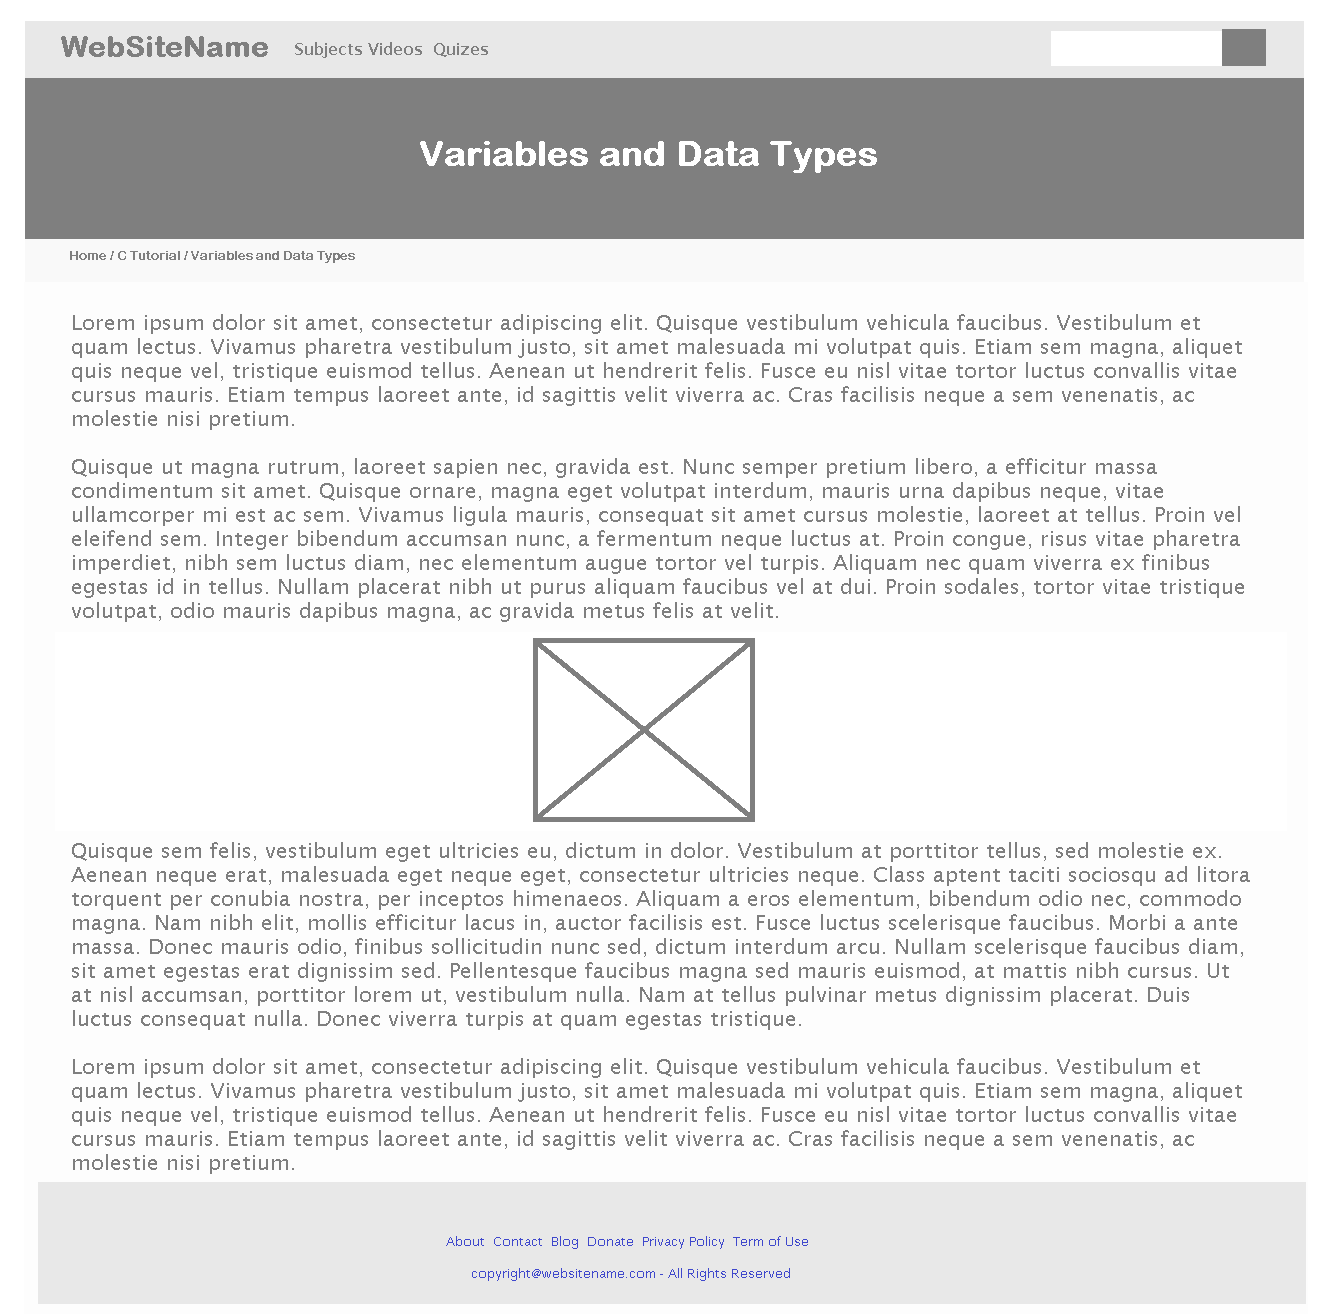
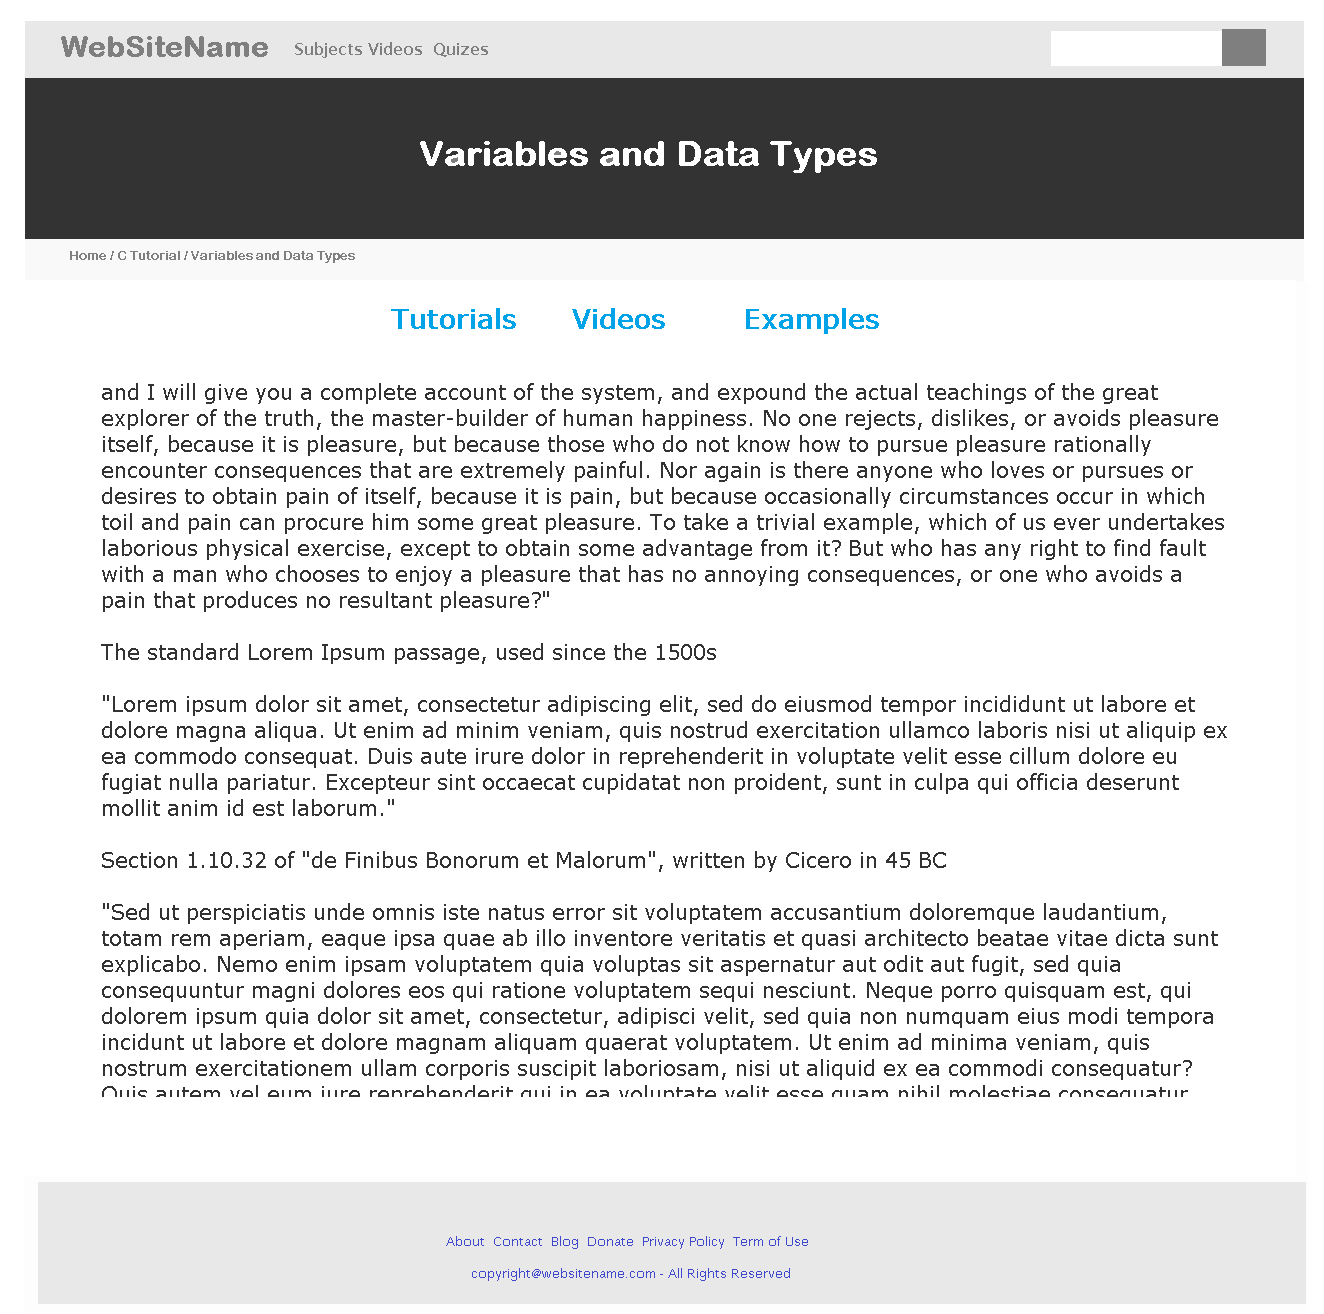
Updates !

Changed region(s): [[0.0619, 0.2184, 0.929, 0.9049], [0.0, 0.0624, 0.9909, 0.1872]]

diff --git a/QuizPage.html b/QuizPage.html
@@ -1,0 +1,163 @@
+<!DOCTYPE html>
+<html lang="en">
+<head>
+<title>Quiz - eLearning WebSite Project </title>
+<link rel="stylesheet" href="https://maxcdn.bootstrapcdn.com/bootstrap/3.3.7/css/bootstrap.min.css">
+<script src="https://ajax.googleapis.com/ajax/libs/jquery/3.2.1/jquery.min.js"></script>
+<script src="https://maxcdn.bootstrapcdn.com/bootstrap/3.3.7/js/bootstrap.min.js"></script>
+<link rel="stylesheet" href="Quiz-main.css"/>
+</head>
+<nav class="navbar navbar-default navbar-fixed-top">
+<div class="container-fluid">
+<div class="navbar-header">
+    <a class="navbar-brand" href="#">Websitename</a>
+    </div>
+
+    <ul class="nav navbar-nav">
+        <li><a class="active" href="#">Home</a></li>
+        <li><a href="#">Subjects</a></li>
+        <li><a href="#">Videos</a></li>
+        <li><a href="#">Quizes</a></li>
+    </ul>
+    <form class="navbar-form navbar-right">
+        <div class="form-group">
+            <input type="text" class="form-control" placeholder="Search">
+        </div>
+        <button type="submit" id="srch" class="btn btn-default">Submit</button>
+    </form>
+</div>
+</nav>
+<!-- Course Name section -->
+<div class="container-fluid text-center">
+        <div class="wrapper">
+            <h1>Variables and Data Types - Quiz</h1>
+                  </div>
+    </div><!-- Container ends-->
+<nav class="breadcrumb">
+        <a class="breadcrumb-item" href="#">Home</a>
+        <a class="breadcrumb-item" href="#">/C Tutorial</a>
+        <span class="breadcrumb-item active">/Variables and Data Types</span>
+      </nav>
+      <!-- breadcrumbs ends-->
+      <!-- links to lesson, videos and examples -->
+<div class="container-fluid text-center">
+    <ul class="nav navbar-nav">
+        <li>
+            <a href="#">Tutorial</a>
+        </li>
+        <li>
+                <a href="#">Videos</a>
+            </li>
+            <li>
+                    <a href="#">Examples</a>
+                </li>
+    </ul>
+    </div>
+    <hr>
+    <!-- Questions -->
+    <div class="container">
+     <p>Q1. Which of the following is correct syntax to declare a variable in C?</p>
+     <div class="form-group">
+         <input type="radio" id="q1" value =""> 
+         int a<br/>
+         <input type="radio" id="q2"> 
+         int b;<br/>
+         <input type="radio" id="q3"> 
+         float ;<br/>
+         <input type="radio" id="q4"> 
+         None of the above <br/>
+          <div class="button-ground ">
+         <button class="btn btn-md btn-info">Submit</button>
+         <button class="btn btn-md btn-default">Show Answer</button>
+         </div>
+
+    </div>
+    </div>
+    <hr>
+    <div class="container">
+            <p>Q1. Which of the following is correct syntax to declare a variable in C?</p>
+            <div class="form-group">
+                <input type="radio" id="q1" value =""> 
+                int a<br/>
+                <input type="radio" id="q2"> 
+                int b;<br/>
+                <input type="radio" id="q3"> 
+                float ;<br/>
+                <input type="radio" id="q4"> 
+                None of the above <br/>
+                 <div class="button-ground ">
+                <button class="btn btn-md btn-info">Submit</button>
+                <button class="btn btn-md btn-default">Show Answer</button>
+                </div>
+       
+           </div>
+           </div>
+           <hr>
+           <div class="container">
+                <p>Q1. Which of the following is correct syntax to declare a variable in C?</p>
+                <div class="form-group">
+                    <input type="radio" id="q1" value =""> 
+                    int a<br/>
+                    <input type="radio" id="q2"> 
+                    int b;<br/>
+                    <input type="radio" id="q3"> 
+                    float ;<br/>
+                    <input type="radio" id="q4"> 
+                    None of the above <br/>
+                     <div class="button-ground ">
+                    <button class="btn btn-md btn-info">Submit</button>
+                    <button class="btn btn-md btn-default">Show Answer</button>
+                    </div>
+           
+               </div>
+               </div>
+               <hr>
+               <div class="container">
+                    <p>Q1. Which of the following is correct syntax to declare a variable in C?</p>
+                    <div class="form-group">
+                        <input type="radio" id="q1" value =""> 
+                        int a<br/>
+                        <input type="radio" id="q2"> 
+                        int b;<br/>
+                        <input type="radio" id="q3"> 
+                        float ;<br/>
+                        <input type="radio" id="q4"> 
+                        None of the above <br/>
+                         <div class="button-ground ">
+                        <button class="btn btn-md btn-info">Submit</button>
+                        <button class="btn btn-md btn-default">Show Answer</button>
+                        </div>
+               
+                   </div>
+                   </div>
+                   <hr>
+                   <div class="container">
+                        <p>Q1. Which of the following is correct syntax to declare a variable in C?</p>
+                        <div class="form-group">
+                            <input type="radio" id="q1" value =""> 
+                            int a<br/>
+                            <input type="radio" id="q2"> 
+                            int b;<br/>
+                            <input type="radio" id="q3"> 
+                            float ;<br/>
+                            <input type="radio" id="q4"> 
+                            None of the above <br/>
+                             <div class="button-ground ">
+                            <button class="btn btn-md btn-info">Submit</button>
+                            <button class="btn btn-md btn-default">Show Answer</button>
+                            </div>
+                   
+                       </div>
+                       </div>
+                          <!-- Footer -->
+<div class="container-fluid text-center">
+        
+        <ul class="nav narbar-nav">
+            <li><a href="#">About</a></li>
+            <li><a href="#">Blog</a></li>
+            <li><a href="#">Donate</a></li>
+            <li><a href="#">Contact</a></li>
+            <li><a href="#">Privary Policy</a></li>
+        </ul>
+       <a href="#"><p>copyright&copy;Websitename - All Rights Reserved</p></a>
+        </div>

diff --git a/CoursePage.html b/CoursePage.html
@@ -29,10 +29,9 @@
 </nav>
 <!-- Course Name section -->
 <div class="container-fluid text-center">
-    <div class="page-header">
+    <div class="wrapper">
         <h1>C Programming Tutorial</h1>
-        <p>Lorem ipsum dolor sit amet, consectetuer adipiscing elit,ut laoreet dolore magna aliquam erat volutpat</p>
-    </div>
+              </div>
 </div><!-- Container ends-->
 <nav class="breadcrumb">
         <a class="breadcrumb-item" href="#">Home</a>             
@@ -84,7 +83,7 @@
                                   <div class="btn-group btn-default">
                         
                             <button class="btn btn-info"><a href="file:///D:/E-Learning%20WebSite%20Project/E-Learning-Site-Project/LessonPage%20-%20Variables.html">Tutorial</a></button>
-                            <button class="btn btn-info">Video</button>
+                            <button class="btn btn-info"><a href="file:///D:/E-Learning%20WebSite%20Project/E-Learning-Site-Project/QuizPage.html">Quiz</a></button>
                             <button class="btn btn-info">Examples</button>
                         </div>
             </div>

diff --git a/HomePage.html b/HomePage.html
@@ -29,11 +29,13 @@
     
 <div class="container-fluid text-center">
 <div class="row">
-    <div class="col-lg-12 block1">
+    <div class="col-lg-12 ">
+        <div class="jumbotron">
         <h1>Learn C Programming Now!</h1>
         <p class="b1 lead">C programming is a popular high level language. The C language is english like 
             and simple to learn. Learn from our 1000s of experts and make a career as C programmer. </p>
    <button type="button" class="basic"><a href="file:///D:/E-Learning%20WebSite%20Project/E-Learning-Site-Project/CoursePage.html">C Tutorial</a></button>
+        </div>
         </div>
     <div class="col-lg-12 block2">
         <h1>Learn Python Programming Now!</h1>

diff --git a/LessonPage - Variables.html b/LessonPage - Variables.html
@@ -29,11 +29,10 @@
 </nav>
 <!-- Course Name section -->
 <div class="container-fluid text-center">
-    <div class="jumbotron">
-        <h1>Variables and Data Types</h1>
-        <p>Lorem ipsum dolor sit amet, consectetuer adipiscing elit,ut laoreet dolore magna aliquam erat volutpat</p>
-    </div>
-</div><!-- Container ends-->
+        <div class="wrapper">
+            <h1>Variables and Data Types</h1>
+                  </div>
+    </div><!-- Container ends-->
 <nav class="breadcrumb">
         <a class="breadcrumb-item" href="#">Home</a>
         <a class="breadcrumb-item" href="#">/C Tutorial</a>

diff --git a/main.css b/main.css
@@ -2,8 +2,8 @@
     margin-bottom: 0px;
 }
 
-.block1{
-    padding:100px 0px 100px 0px;
+.jumbotron{
+    margin:auto;
     line-height: 2em;
     font-family: "Helvetica";
     background: rgb(31, 29, 29);

diff --git a/Quiz-main.css b/Quiz-main.css
@@ -15,7 +15,7 @@ p, .btn-default{
 }
 #srch{
     padding:5px;
-}
+} 
 .panel-text{
     padding:10px 60px 10px 60px;
     border:1px solid lavender;

diff --git a/Lesson-main.css b/Lesson-main.css
@@ -1,5 +1,6 @@
-.jumbotron{
+.wrapper{
     background: rgb(49, 47, 47);
+    padding:70px 100px 30px 100px;
 color:white;
 }
 p, .btn-default{
